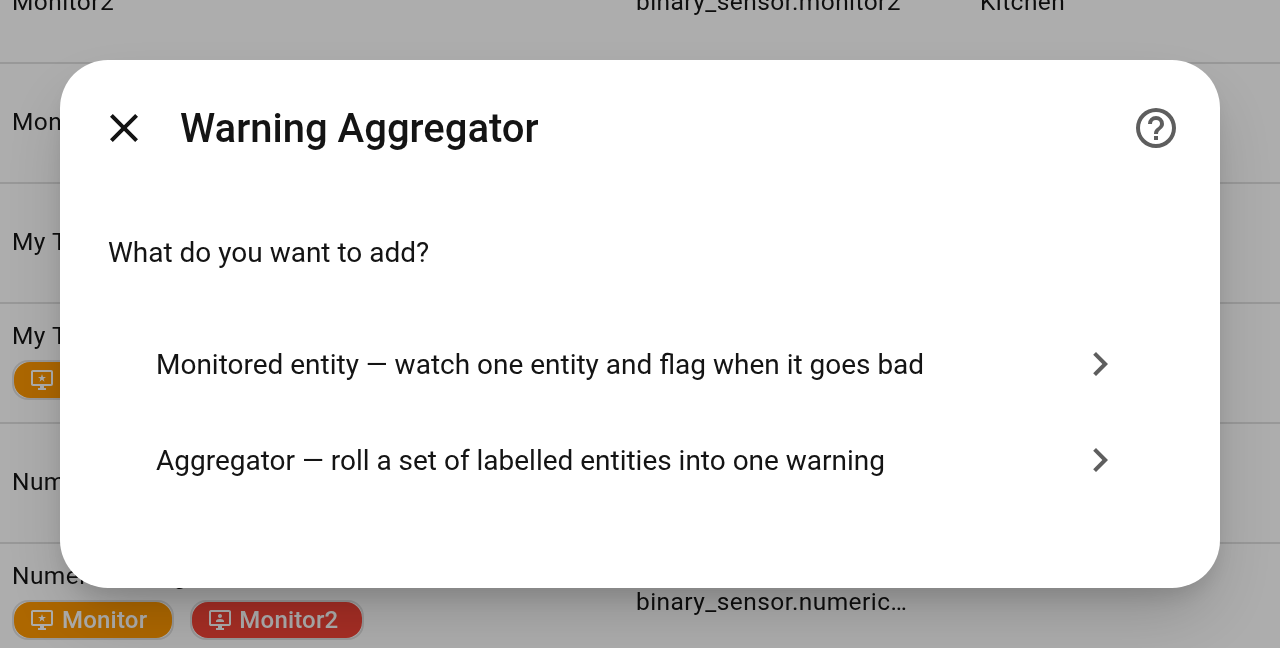
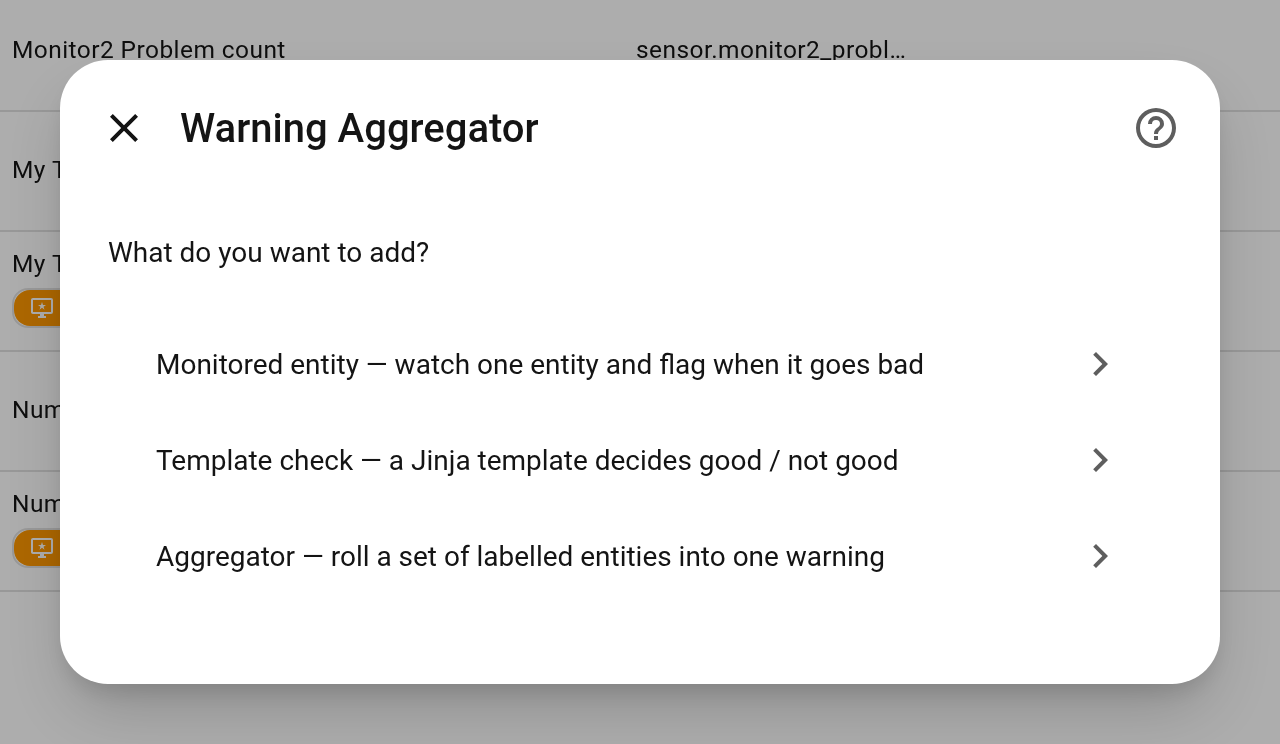
docs: cover template checks and the warn_agg_ prefix
* README: new "Template check" subsection with its own screenshot, the
  `warn_agg_` prefix explained where monitors are created and in the
  entities table, and the card-title behaviour in the card walkthrough.
* Refresh `wa-menu` (three options now) and add `monitor-template`, both
  light and dark.

Claude-Session: https://claude.ai/code/session_01XvZ7pJnzPLgCyzA87qC3ay

diff --git a/README.md b/README.md
@@ -21,6 +21,8 @@ UI-configured helpers and a Lovelace card.
 - **Monitored entity** — pick any entity; the setup form adapts to whether it is
   a switch, a number or text and asks only the relevant question. Produces one
   `binary_sensor` (device class `problem`).
+- **Template check** — when the built-in kinds aren't enough, a Jinja template
+  decides: a problem when it renders truthy, OK otherwise. Same `problem` sensor.
 - **Aggregator** — point it at one or more **labels** and it combines every
   labelled entity into a single `problem` sensor that knows *which* entities are
   tripped.
@@ -29,7 +31,7 @@ UI-configured helpers and a Lovelace card.
 
 | Platform | What you get |
 | --- | --- |
-| `binary_sensor` | One `problem` sensor per **Monitored entity**, and one per **Aggregator**. |
+| `binary_sensor` | One `problem` sensor per **Monitored entity** / **Template check**, and one per **Aggregator**. |
 | `sensor` | A `<name> Problem count` for each **Aggregator**. |
 | Lovelace card | `custom:warning-aggregator-card`, registered automatically — no resource to add. |
 
@@ -73,7 +75,7 @@ entity that carries a label you choose.
 
    <picture>
      <source media="(prefers-color-scheme: dark)" srcset="docs/images/wa-menu-dark.png">
-     <img src="docs/images/wa-menu.png" alt="The Warning Aggregator helper-type menu: Monitored entity or Aggregator" width="560">
+     <img src="docs/images/wa-menu.png" alt="The Warning Aggregator helper-type menu: Monitored entity, Template check or Aggregator" width="560">
    </picture>
 
 4. Fill in the form and **Submit**:
@@ -122,16 +124,44 @@ dropping out…
   <img src="docs/images/monitor-entity.png" alt="The adaptive check form for a numeric entity" width="620">
 </picture>
 
-You get `binary_sensor.<name>` (device class **Problem**) — `on` when the check
-fails — with a **`reason`** attribute explaining the verdict (`12 is below 20`,
-`'error' matches 'Error'`). Because you labelled it, `binary_sensor.house_status`
-now counts it.
+You get `binary_sensor.warn_agg_<name>` (device class **Problem**) — `on` when the
+check fails — with a **`reason`** attribute explaining the verdict (`12 is below
+20`, `'error' matches 'Error'`). The `warn_agg_` prefix keeps every monitor
+together in the entity list and pickers; the friendly name stays whatever you
+typed, and you can still rename the entity_id afterwards. Because you labelled it,
+`binary_sensor.house_status` now counts it.
 
 The cog icon re-tunes the thresholds. To watch a *different* entity, delete the
 helper and make a new one.
 
 > You can also skip the wrapper: put the `Monitored` label straight onto any
 > native `problem` binary_sensor and the aggregator will include it.
+
+#### Template check
+
+When the adaptive form can't express the rule — comparing two entities, a time
+window, "any of these three" — choose **Template check** from the same menu
+instead of *Monitored entity*.
+
+<picture>
+  <source media="(prefers-color-scheme: dark)" srcset="docs/images/monitor-template-dark.png">
+  <img src="docs/images/monitor-template.png" alt="The Template check form" width="620">
+</picture>
+
+- **Problem template** — a problem when it renders truthy (`true`, `"on"`, a
+  non-empty string); OK when it renders `false` / `""` / `"off"`. Same rule as a
+  Home Assistant template `binary_sensor`.
+- **Reason template** (optional) — rendered into the `reason` attribute and the
+  card's list.
+- **When the template errors or renders nothing** — treat as a problem (default)
+  or OK.
+
+```jinja
+{{ states('sensor.freezer_temp') | float(0) > -15 }}
+```
+
+You get the same `binary_sensor.warn_agg_<name>`; label it and an Aggregator
+picks it up like any other monitor.
 
 ### 3. Add the card to a dashboard
 
@@ -141,8 +171,9 @@ The card registers itself once you have at least one helper — no resource to a
 2. Search for **Warning Aggregator** (it's under *Custom*). If it's missing,
    hard-refresh the browser (**Ctrl/Cmd-Shift-R**).
 3. In the card editor set **Aggregator sensor** to `binary_sensor.house_status`.
-   Optionally change the title, the "all OK" text, or tick *hide when everything
-   is OK*.
+   The **title** tracks that sensor's name (it re-fills whenever you switch the
+   sensor); clear or override it after, along with the "all OK" text or the
+   *hide when everything is OK* tick.
 4. **Save**.
 
 Green **"All Sensors OK"** when nothing is wrong; otherwise a warning header with
@@ -165,7 +196,7 @@ more-info dialog).
 ```yaml
 type: custom:warning-aggregator-card
 entity: binary_sensor.house_status
-# title: House status                  # optional, defaults to the sensor's name
+# title: House status                  # optional; the UI editor pre-fills the sensor's name
 # ok_text: All Sensors OK              # optional
 # problem_text: Sensors need attention # optional (header when tripped)
 # hide_when_ok: false                  # optional — render nothing while all OK
@@ -181,6 +212,18 @@ label: monitored
 problem_states: [warning]   # states counted as a problem (default: [warning])
 ```
 </details>
+
+### Trigger an automation on good ↔ not-good
+
+Every aggregator and monitored entity is a `binary_sensor` with the `problem`
+device class, so an automation triggers on the same boolean the card uses:
+
+1. **Settings → Automations → Create automation → Add trigger**
+2. Search for the sensor by name and pick the **binary sensor** entity (not the
+   device — Home Assistant 2026.7's editor doesn't list device triggers).
+3. Choose **State**, then set **To** to **Problem** (started failing) or **OK**
+   (all clear). Home Assistant shows those labels instead of `on`/`off` because
+   of the `problem` device class.
 
 ### Get notified
 
@@ -208,7 +251,8 @@ actions:
 
 | Entity | Source | Key attributes |
 | --- | --- | --- |
-| `binary_sensor.<name>` | Monitored entity | `watched_entity`, `watched_state`, `kind`, `reason` |
+| `binary_sensor.warn_agg_<name>` | Monitored entity | `watched_entity`, `watched_state`, `kind`, `reason` |
+| `binary_sensor.warn_agg_<name>` | Template check | `value_template`, `kind`, `reason` |
 | `binary_sensor.<name>` | Aggregator | `problem_entities`, `problem_names`, `problem_count`, `watched_count`, `watched_entities`, `labels`, `match` |
 | `sensor.<name>_problem_count` | Aggregator | `problem_entities`, `problem_names` |
 

diff --git a/docs/images/README.md b/docs/images/README.md
@@ -8,9 +8,10 @@ Each has a `-dark.png` twin; the README swaps them with `<picture>` +
 
 | File | Shows |
 | --- | --- |
-| `wa-menu.png` | the **Warning Aggregator** helper-type menu (Monitored entity / Aggregator) |
+| `wa-menu.png` | the **Warning Aggregator** helper-type menu (Monitored entity / Template check / Aggregator) |
 | `create-aggregator.png` | the **Aggregator** config form |
 | `monitor-entity.png` | the adaptive **Monitored entity** check form for a numeric entity |
+| `monitor-template.png` | the **Template check** form |
 | `card-ok.png` | the card, all-OK (green) |
 | `card-problem.png` | the card, tripped (warning header + listed monitors) |
 
